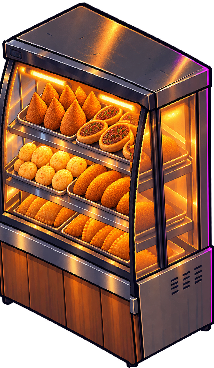
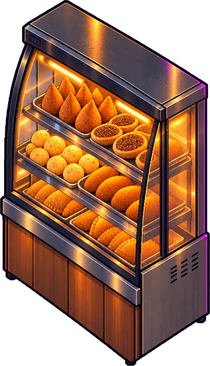
The Last Dance: padaria — estufa no ângulo certo e centralizada, porta do banheiro mais larga

diff --git a/frontend/public/thelastdance/js/maps/padaria_planta.js b/frontend/public/thelastdance/js/maps/padaria_planta.js
@@ -53,7 +53,7 @@
       // atrás do balcão (área dos funcionários)
       { nome: "Máquina de café", tipo: "movel", x0: 1.0, y0: 0, x1: 1.9, y1: 0.55, z1: 1.45, arte: "maquina_cafe" },
       { nome: "Chapa", tipo: "mesa", x0: 3.6, y0: 0, x1: 5.0, y1: 0.6, z1: 0.95, arte: "chapa" },
-      { nome: "Estufa de salgados", tipo: "luz", x0: 5.6, y0: 0, x1: 6.5, y1: 0.55, z1: 1.3, arte: "estufa_salgados" },
+      { nome: "Estufa de salgados", tipo: "luz", x0: 5.75, y0: 0, x1: 6.65, y1: 0.55, z1: 1.3, arte: "estufa_salgados" },
       { nome: "Forno de pão", tipo: "armario", x0: 7.4, y0: 0, x1: 8.6, y1: 0.7, z1: 1.7, arte: "forno_pao" },
 
       // balcão com vitrine + banquetas; passagem do garçom entre a vitrine e o caixa.
@@ -85,7 +85,7 @@
       { nome: "Prateleira de pães", tipo: "prateleira", plano: "y0", a: 2.1, b: 3.5, z0: 1.6, z1: 2.4, arte: "prateleira_paes" },
       { nome: "Cardápio", tipo: "cardapio", plano: "y0", a: 4.0, b: 5.4, z0: 1.7, z1: 2.6, arte: "cardapio_padaria" },
       { nome: "Letreiro \"PADARIA\"", tipo: "neon", plano: "y0", a: 7.6, b: 9.6, z0: 2.0, z1: 2.7, texto: ["PADARIA", "24H"], arte: "neon_padaria" },
-      { nome: "Banheiro", tipo: "porta", plano: "y0", a: 12.4, b: 13.2, z0: 0, z1: 2.1, arte: "porta_banheiro" },
+      { nome: "Banheiro", tipo: "porta", plano: "y0", a: 12.1, b: 13.4, z0: 0, z1: 2.2, arte: "porta_banheiro" }, // largura perto da proporção da arte
       // parede da esquerda (x = 0): vitrine para a rua e a porta de saída
       { nome: "Vitrine para a rua", tipo: "vidro", plano: "x0", a: 5.2, b: 7.0, z0: 0.9, z1: 2.4, arte: "vitrine_rua" },
       { nome: "Porta da rua", tipo: "porta", plano: "x0", a: 7.6, b: 8.8, z0: 0, z1: 2.3, saida: true, arte: "porta_rua" },

diff --git a/frontend/public/thelastdance/tools/kit_chatgpt.py b/frontend/public/thelastdance/tools/kit_chatgpt.py
@@ -73,7 +73,7 @@ KITS = {
              "and a spatula, a steel cabinet below. Its front is the DARKEST front-left face.", ["--faces"]),
             ("estufa_salgados", "Estufa de salgados", "peca",
              "a heated glass display case (estufa) on a small counter, warm orange inner light, full of Brazilian salgados: "
-             "coxinhas, esfihas, pão de queijo, risoles. The glass front is the DARKEST front-left face.", ["--faces"]),
+             "coxinhas, esfihas, pão de queijo, risoles. The glass front is the DARKEST front-left face.", []),  # frente curva: o encaixe por faces entorta; esticar inteira fica melhor
             ("forno_pao", "Forno de pão", "peca",
              "a tall stainless-steel bakery oven with a glass door showing warm light and loaves of pão francês inside, a control "
              "panel at the top. The door is on the DARKEST front-left face.", ["--faces"]),
